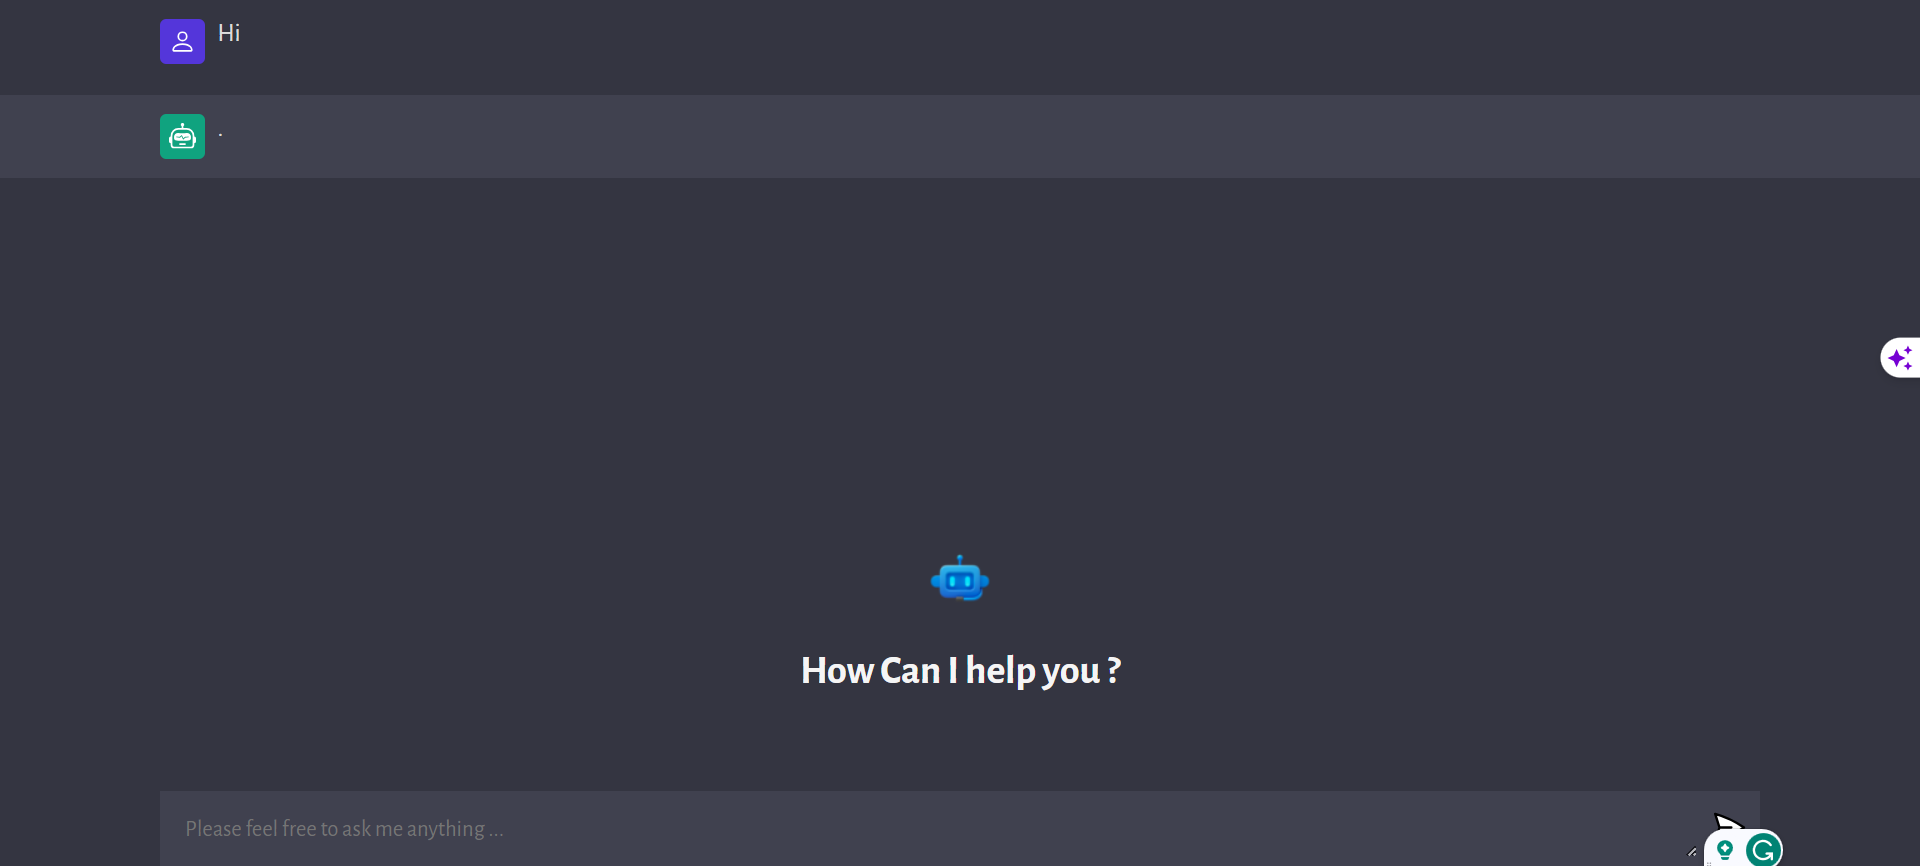
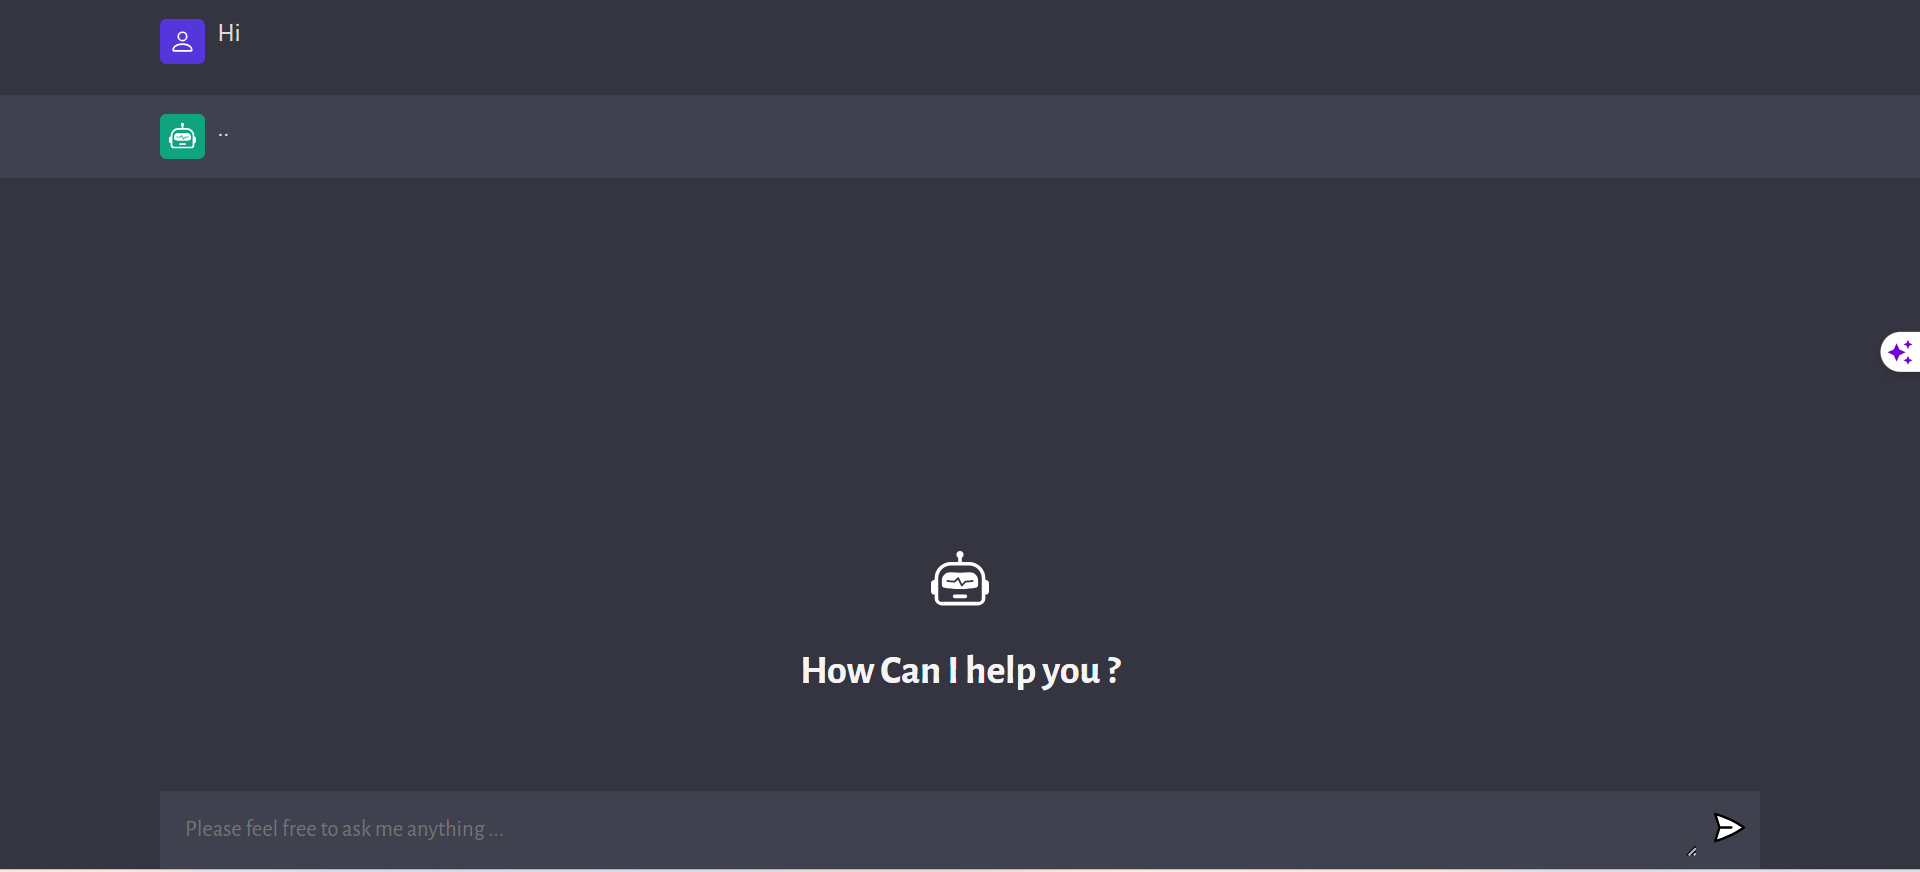
Commit

diff --git a/client/index.html b/client/index.html
@@ -10,7 +10,7 @@
   <body>
     <div id="app">
       <div id="chat_container"></div>
-      <img src="./assets/favicon.ico" alt="ChatGPT" />
+      <img src="./assets/bot.svg" alt="ChatGPT" width="3%" />
         <h1 style="color: whitesmoke;margin-bottom: 5%; margin-top: 2%;">How Can I help you ?</h1>
       <form>
         <textarea name="prompt" rows="1" cols="1" placeholder="Please feel free to ask me anything ... "></textarea>
